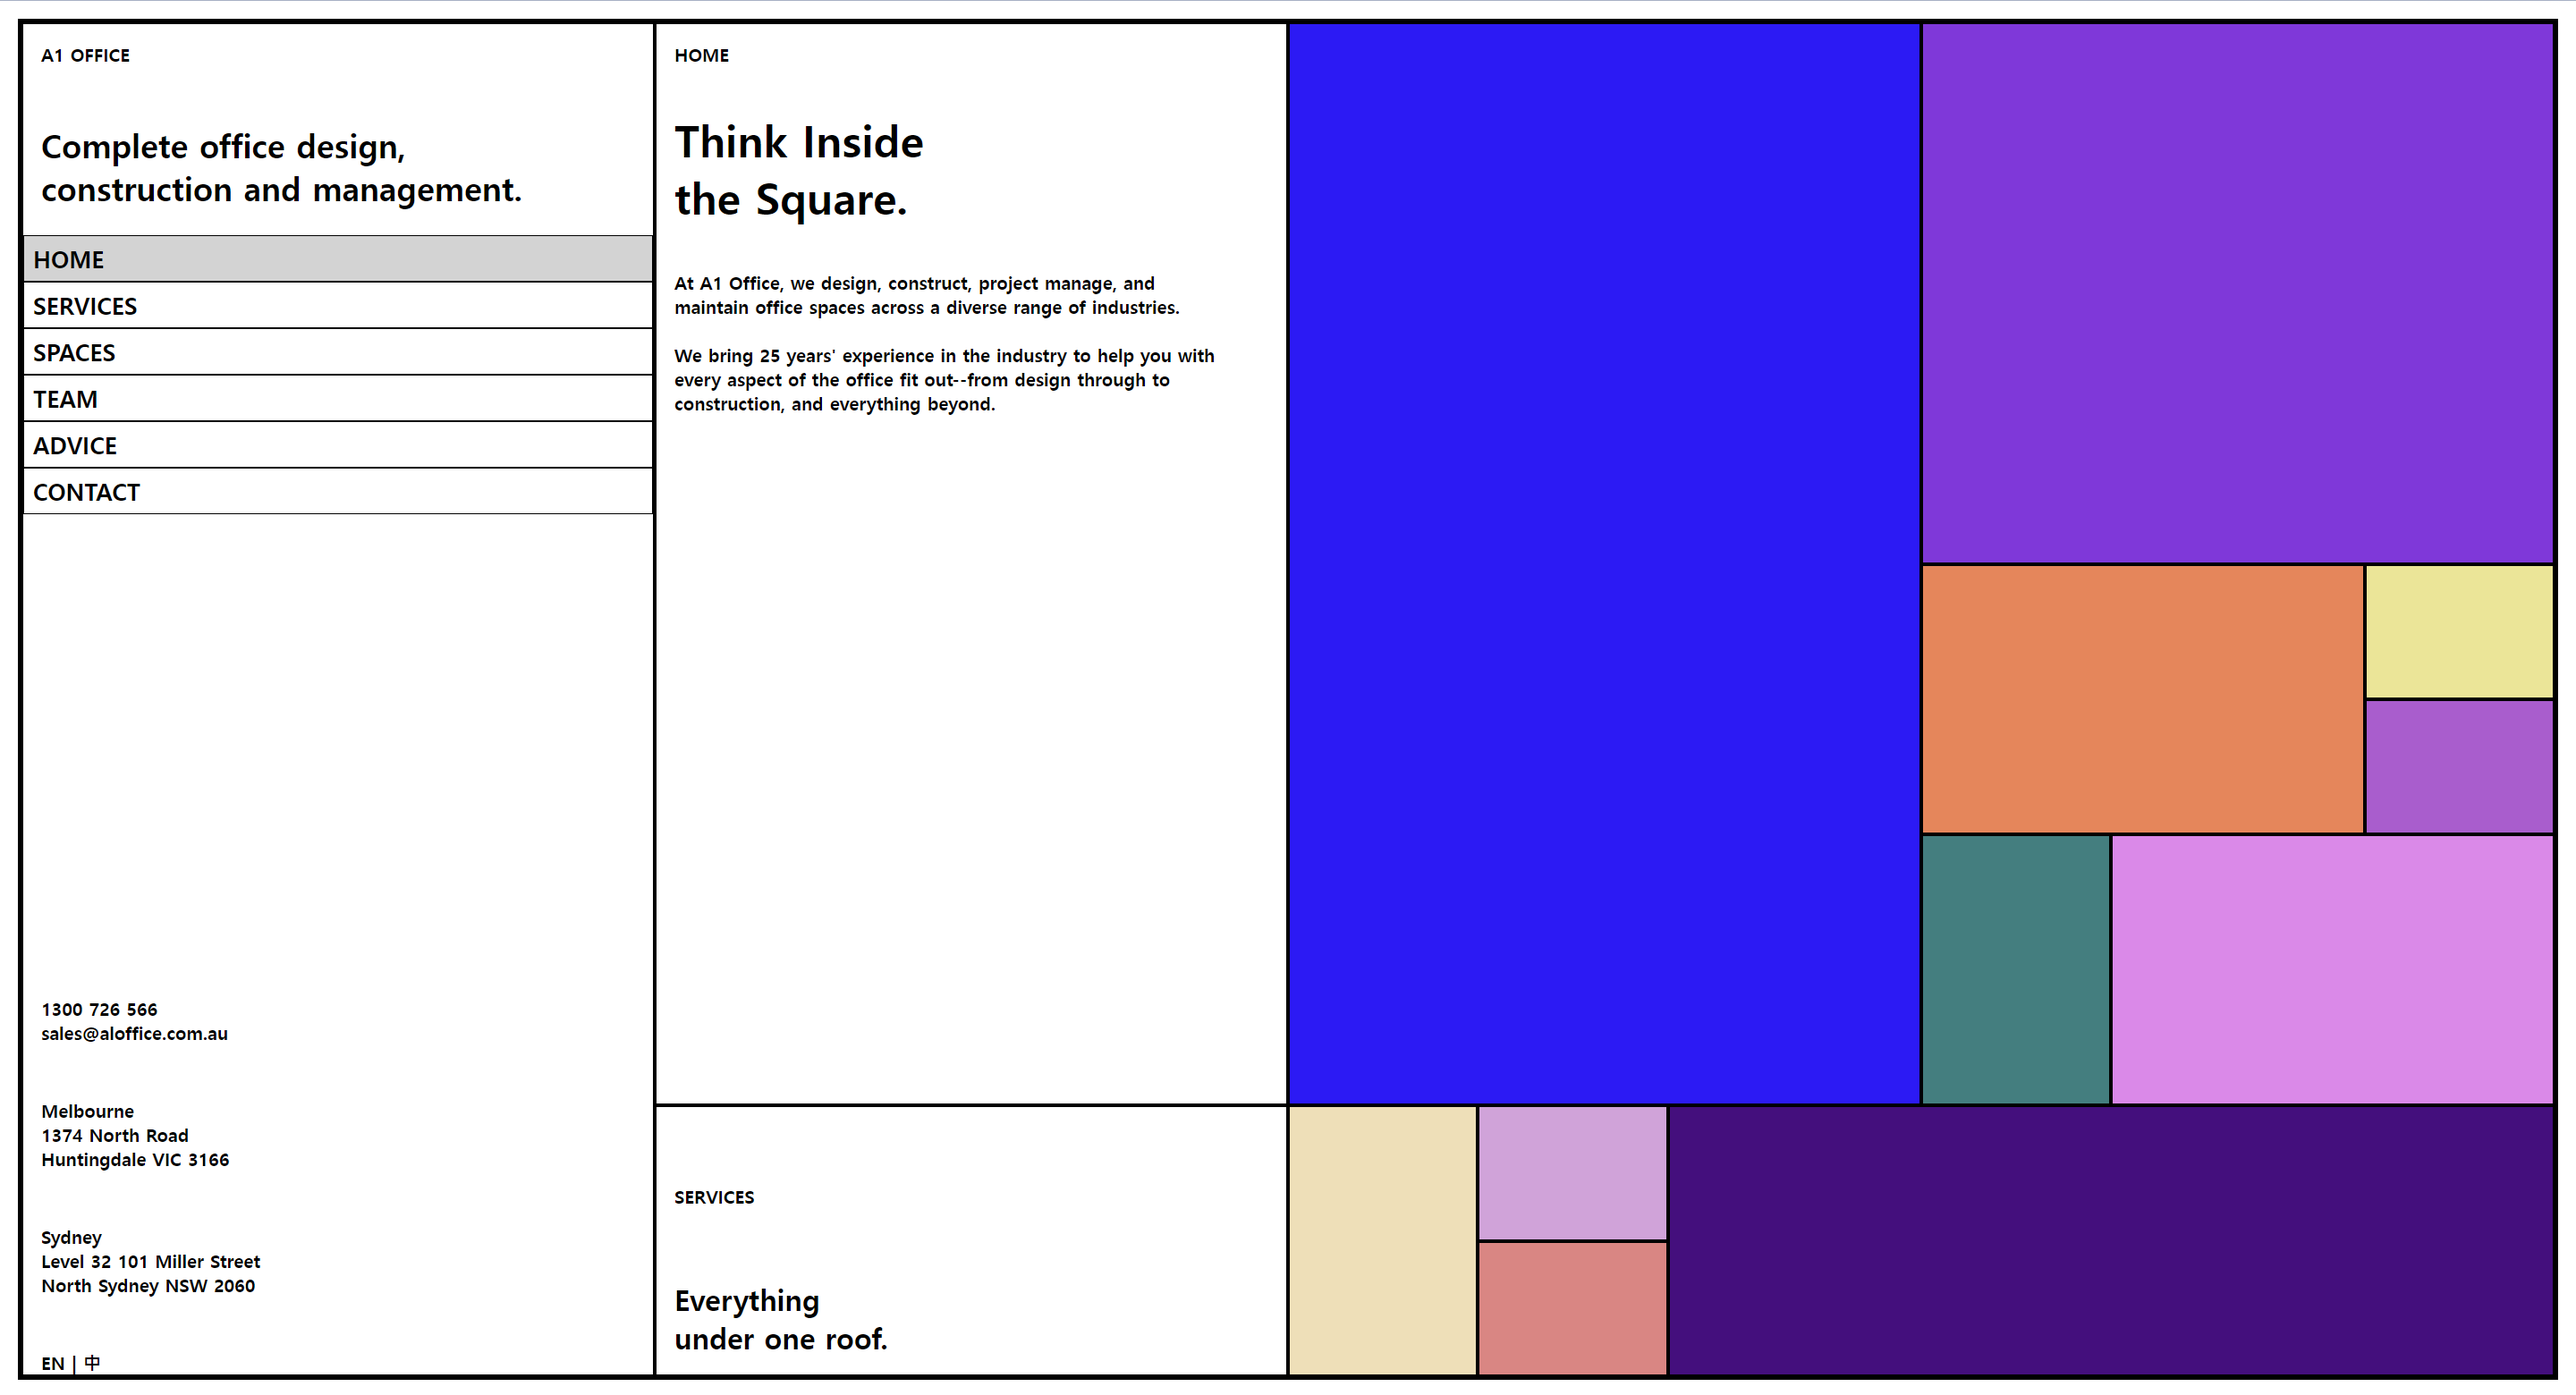
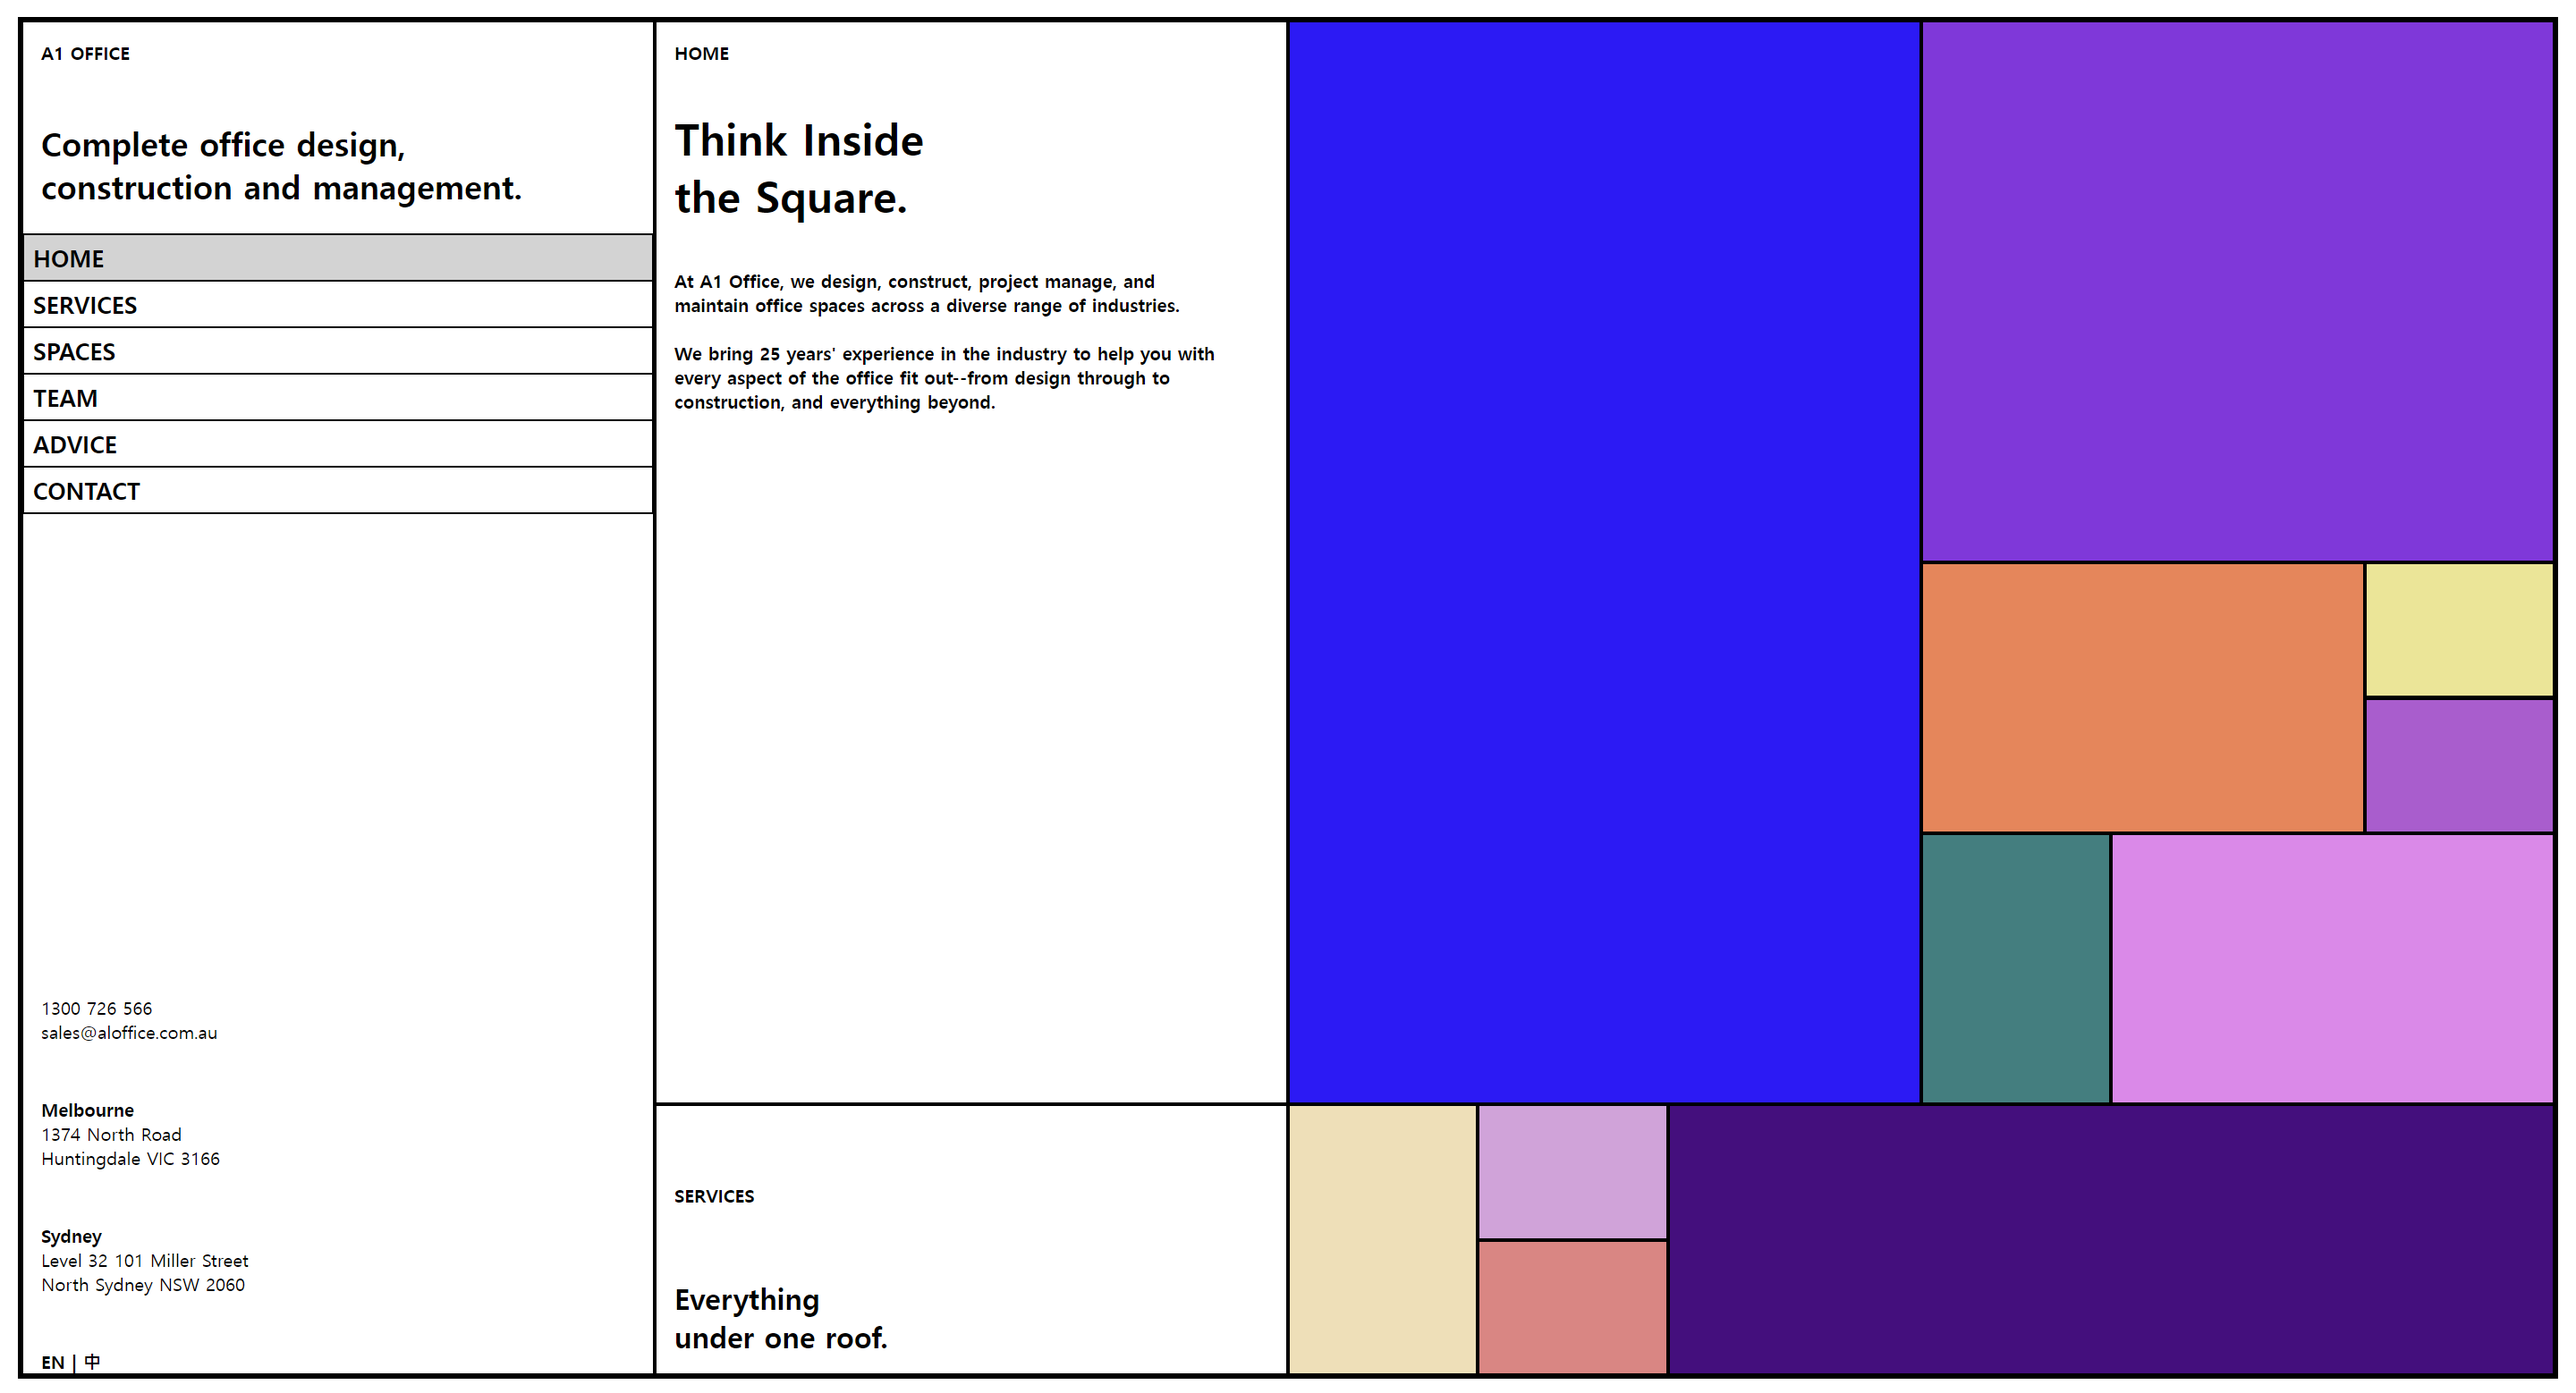
Add files via upload

diff --git a/9_assignment/submit/정윤환/style.css b/9_assignment/submit/정윤환/style.css
@@ -1,5 +1,7 @@
 * {
   box-sizing: border-box;
+  font-family: system-ui, -apple-system, BlinkMacSystemFont, "Segoe UI", Roboto,
+    Oxygen, Ubuntu, Cantarell, "Open Sans", "Helvetica Neue", sans-serif;
 }
 
 body {
@@ -242,6 +244,7 @@ body {
   height: 40%;
   position: relative;
   top: 20px;
+  border: 1px 0px 1px 0px solid black;
 }
 
 .text {
@@ -257,14 +260,21 @@ body {
   background-color: #d3d3d3;
 }
 
+.t_top {
+  border-top: 1px solid black;
+}
+
+.t_bottom {
+  border-bottom: 1px solid black;
+}
+
 .mel {
-  font-weight: 900;
+  font-weight: 700;
   font-size: x-small;
 }
 
 .ser {
   font-size: x-small;
-  font-weight: 600;
 }
 
 .l_subtextbox1 {

diff --git a/9_assignment/submit/정윤환/index.html b/9_assignment/submit/정윤환/index.html
@@ -17,12 +17,12 @@
               Complete office design,<br />construction and management.
             </div>
             <div class="l_subbox">
-              <div class="text back">HOME</div>
+              <div class="text back t_top">HOME</div>
               <div class="text">SERVICES</div>
               <div class="text">SPACES</div>
               <div class="text">TEAM</div>
               <div class="text">ADVICE</div>
-              <div class="text">CONTACT</div>
+              <div class="text t_bottom">CONTACT</div>
             </div>
             <div class="l_subtextbox1">
               <div class="ser">
